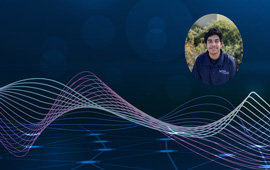
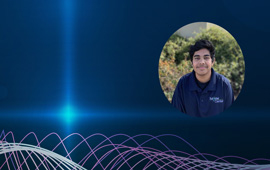
added Hike and Shami

diff --git a/index.html b/index.html
@@ -388,7 +388,7 @@
             <div class="col-xs-6 col-sm-3">
               <div class="aboutImage">
                 <a href="#">
-                  <img src="img/home/active_members/profile4.jpg" alt="" class="img-responsive" />
+                  <img src="img/home/active_members/hike-yegiyan.jpg" alt="Hike Yegiyan" class="img-responsive" />
                   <div class="overlay">
                     <p>Hike Yegiyan</p>
                   </div>
@@ -429,7 +429,7 @@
               <div class="col-xs-6 col-sm-3">
                 <div class="aboutImage">
                   <a href="#">
-                    <img src="img/home/active_members/profile2.jpg" alt="" class="img-responsive" />
+                    <img src="img/home/active_members/profile2.jpg" alt="Austin Mann" class="img-responsive" />
                     <div class="overlay">
                       <h3></h3>
                       <p>Austin Mann</p>
@@ -441,7 +441,7 @@
               <div class="col-xs-6 col-sm-3">
                 <div class="aboutImage">
                   <a href="#">
-                    <img src="img/home/active_members/profile4.jpg" alt="" class="img-responsive" />
+                    <img src="img/home/active_members/profile4.jpg" alt="Tristan Meyers" class="img-responsive" />
                     <div class="overlay">
                       <h3></h3>
                       <p>Tristan Meyers</p>

diff --git a/workshops.html b/workshops.html
@@ -284,7 +284,7 @@
 										</li>
 										<li>
 											<span class="rel_thumb">
-												<img src="img/workshops/rel_thumb3.jpg" alt="" />
+												<img src="img/workshops/rel_thumb3.jpg" alt="Illustration of metallic shining Internet symbol chopped in half and barely held together with tape" />
 											</span><!--end rel_thumb-->
 											<div class="rel_right">
 												<a href="https://www.wired.com/story/amnesia33-iot-vulnerabilitiesmay-never-get-fixed/"><h4>Critical Flaws in Millions of IoT Devices</h4></a>
@@ -300,7 +300,7 @@
                       <h3 class="extraPadding">Upcoming Events</h3>
                       <p class="reduceMargin">Stay in the know!</p>
                       <div class="getImage clearfix">
-                        <img alt="" src="img/home/get_image.jpg" />
+                        <img alt="Instructor William Kerney and students at the Cyber Fire Puzzle competition" src="img/home/get_image.jpg" />
                       </div><!-- getImage -->
                       <h4>Meditation Workshop</h4>
                       <p class="reduceMargin"><i class="fa fa-map-marker"></i> Woodward Park, near Art of Life<br><i class="fa fa-clock-o"></i> Nov 30<sup>th</sup>, Noon</p>

diff --git a/board-members.html b/board-members.html
@@ -277,7 +277,7 @@
 							<li>
 								<a href="#">
 									<div class="thumb">
-										<img src="img/stuff/member/3.png" alt="Hike Hannigan" />
+										<img src="img/stuff/member/hike-yegiyan.jpg" alt="Hike Hannigan" />
 									</div>
 									<h3>Hike Yegiyan</h3>
 									<h5>Marketing Chair</h5>
